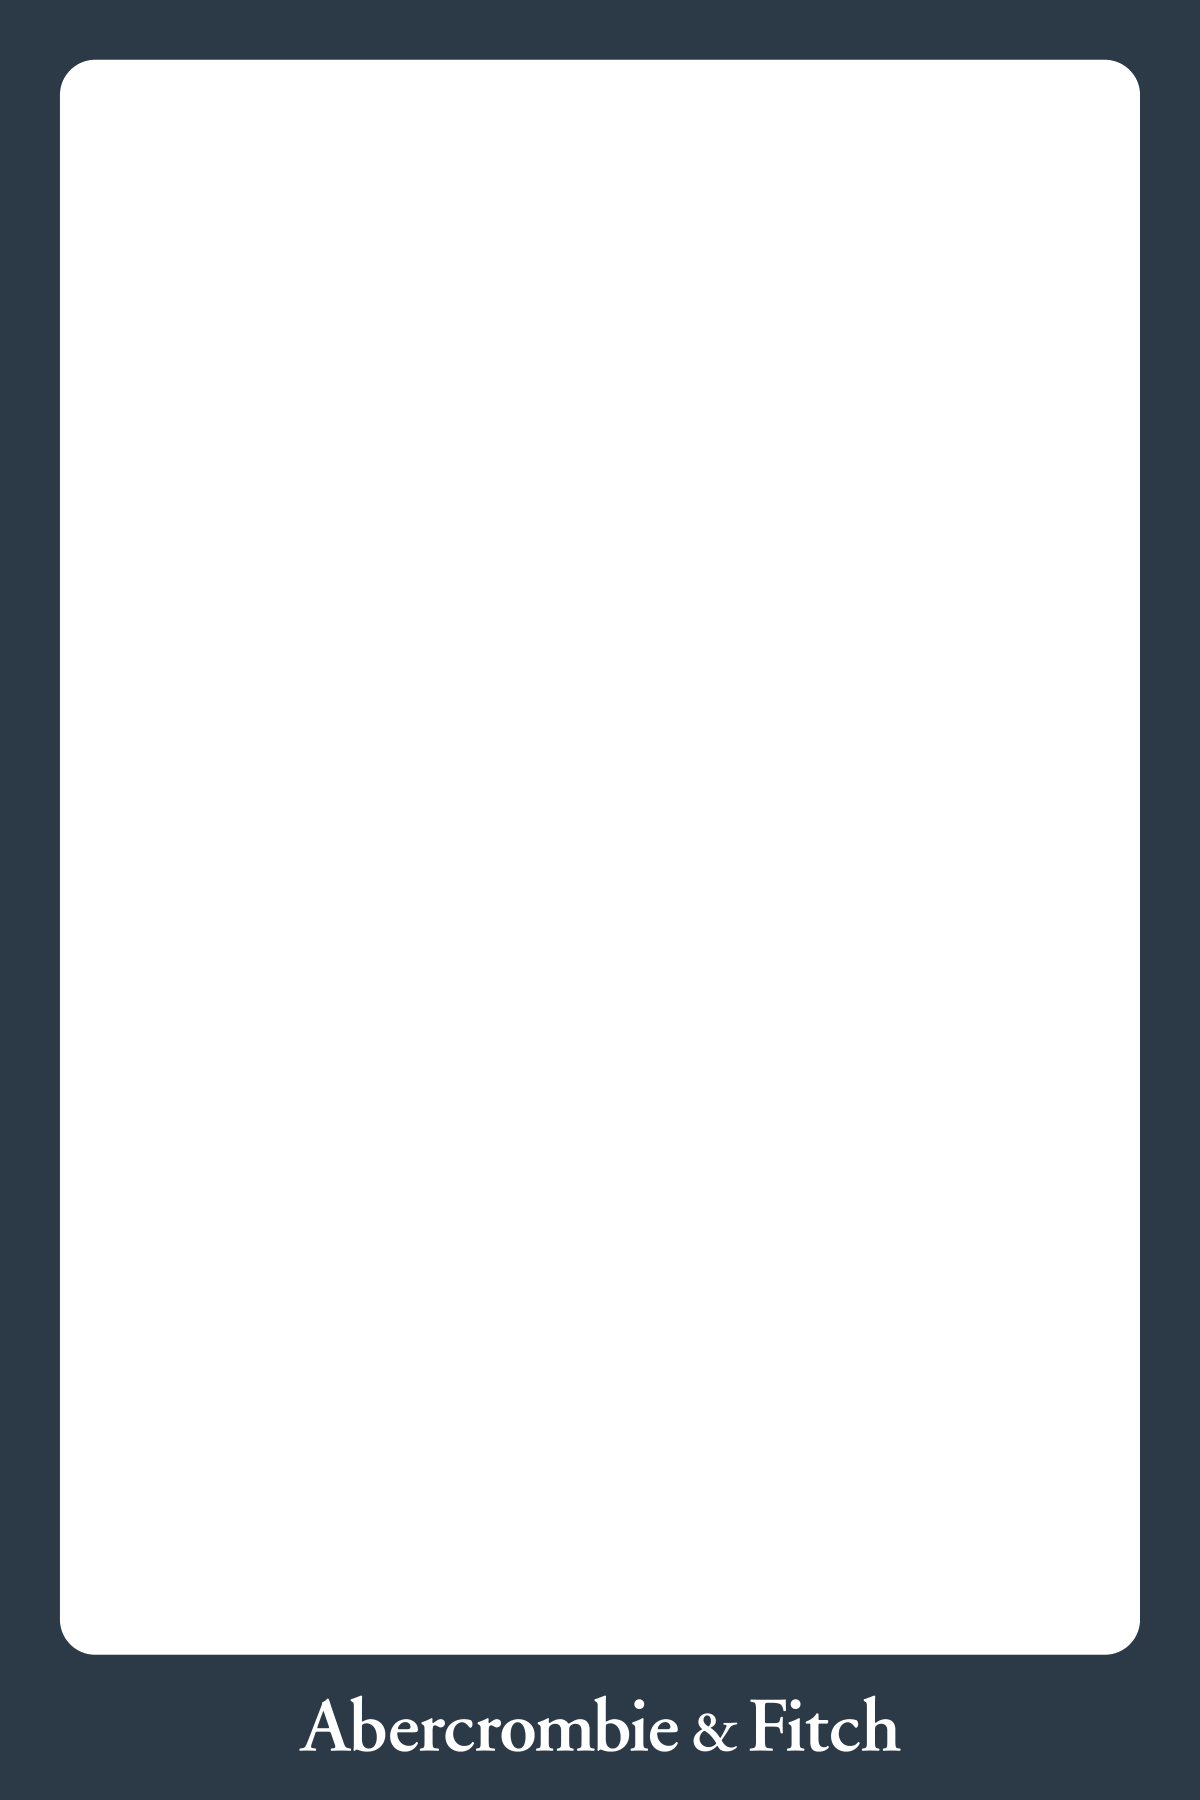
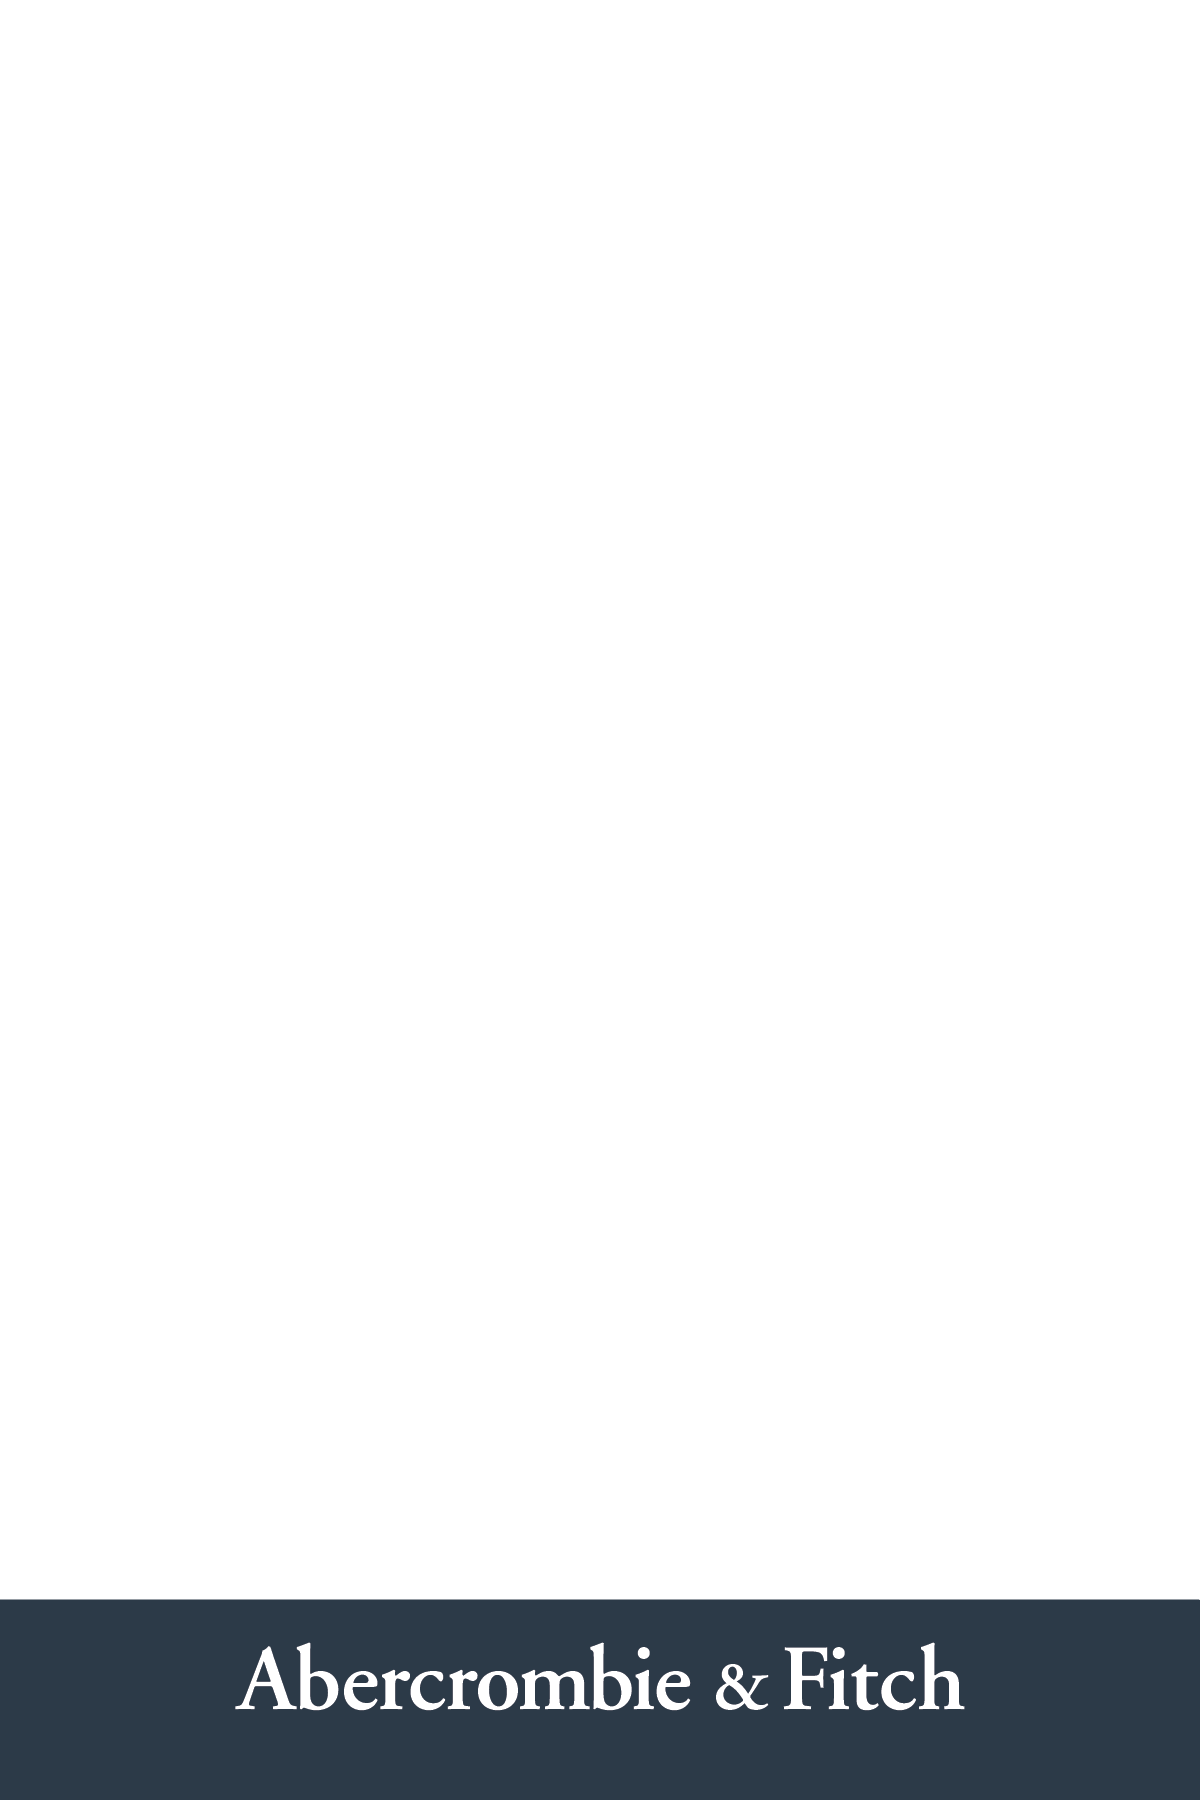
Add files via upload

Changed region(s): [[0.0, 0.0, 1.0, 0.9956]]

diff --git a/anf_photobooth.html b/anf_photobooth.html
@@ -125,9 +125,9 @@ Minimum version required to store current data is: `+i+`.
     @page{size:4in 6in}   /* 4x6 with DEFAULT margins — margin:0/None jams this printer */
     html,body{height:auto;background:#fff;display:block;overflow:visible}
     .stage,.print-overlay{display:none!important}
-    .print-only{display:block;-webkit-print-color-adjust:exact;print-color-adjust:exact}
-    /* subtle offset to counter the printer's consistent shift (tweak top/left mm if needed) */
-    .print-only img{display:block;width:100%;height:auto;position:relative;top:-2mm;left:2mm}
+    .print-only{display:block;text-align:center;-webkit-print-color-adjust:exact;print-color-adjust:exact}
+    /* fill the 4x6 page, centered */
+    .print-only img{display:block;width:100%;height:auto;margin:0 auto}
   }
 </style>
 
@@ -277,10 +277,9 @@ Minimum version required to store current data is: `+i+`.
       var ctx=c.getContext("2d"); ctx.fillStyle="#fff"; ctx.fillRect(0,0,W,H);
       var photo=new Image();
       photo.onload=function(){
-        var L=0.05*W, T=0.0328*H, PW=0.90*W, PH=0.886*H;                 // photo window rect
-        var s=Math.max(PW/photo.width, PH/photo.height), dw=photo.width*s, dh=photo.height*s;
-        ctx.save(); ctx.beginPath(); ctx.rect(L,T,PW,PH); ctx.clip();
-        ctx.drawImage(photo, L+(PW-dw)/2, T+(PH-dh)/2, dw, dh); ctx.restore();
+        // photo fills the WHOLE card (cover); the navy banner overlay sits over the bottom
+        var s=Math.max(W/photo.width, H/photo.height), dw=photo.width*s, dh=photo.height*s;
+        ctx.drawImage(photo, (W-dw)/2, (H-dh)/2, dw, dh);
         function over(){ ctx.drawImage(overlayImg,0,0,W,H); resolve(c.toDataURL("image/jpeg",0.92)); }
         if(overlayImg.complete && overlayImg.naturalWidth){ over(); } else { overlayImg.onload=over; }
       };
